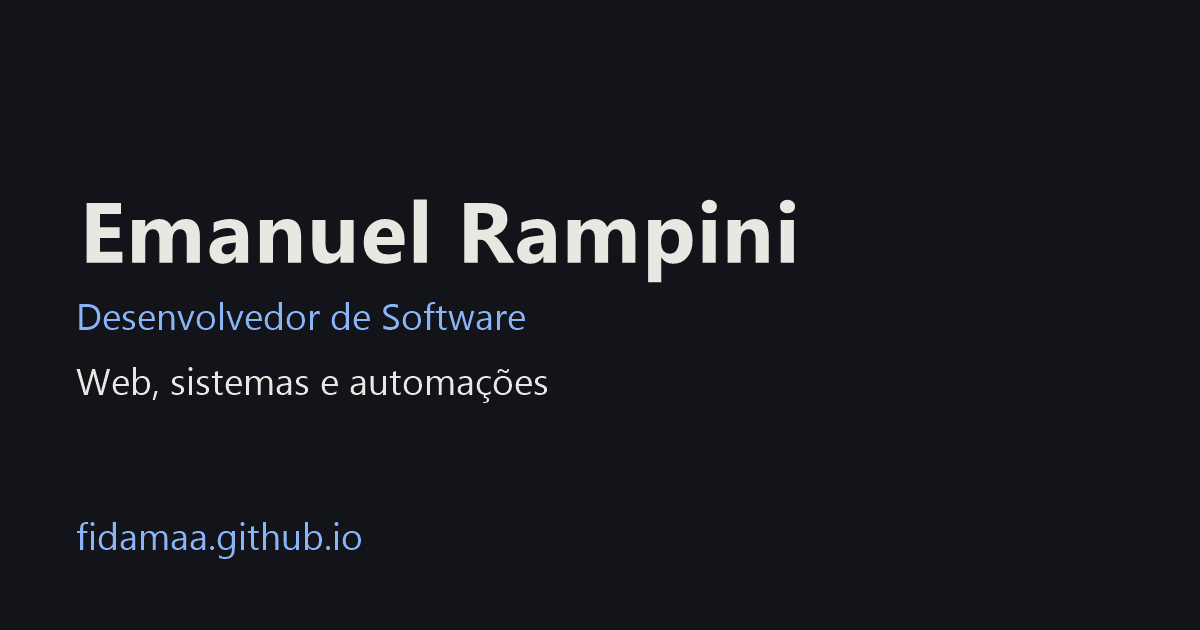
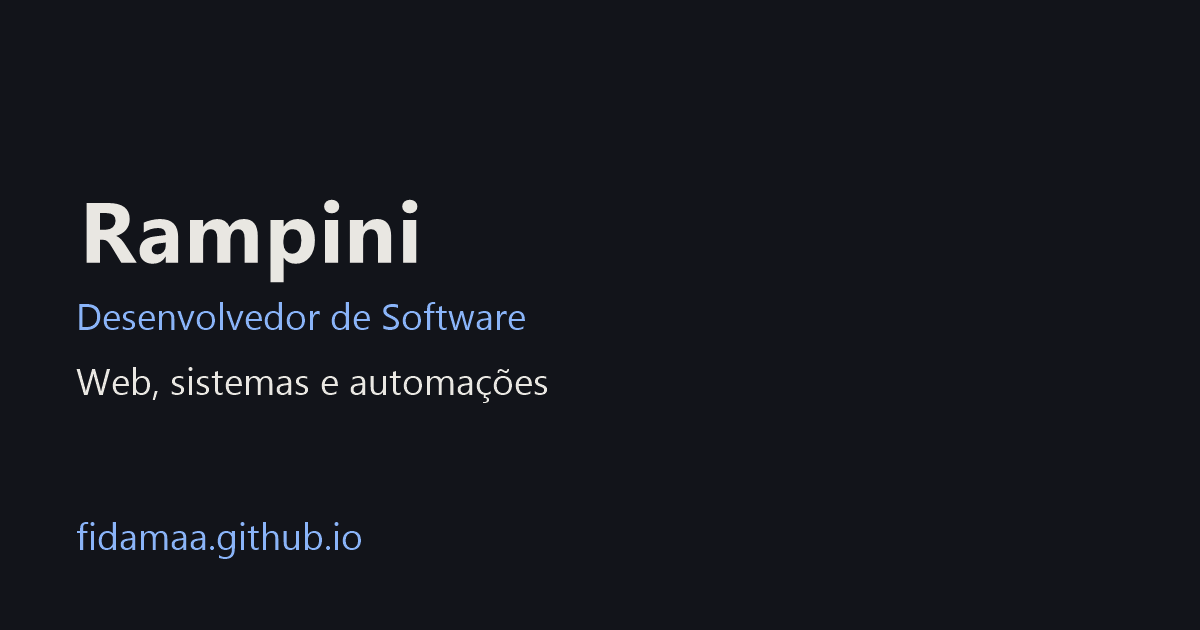
Usa Rampini como nome do portfolio

Changed region(s): [[0.0617, 0.3016, 0.6783, 0.4524]]

diff --git a/index.html b/index.html
@@ -3,14 +3,14 @@
 <head>
   <meta charset="UTF-8">
   <meta name="viewport" content="width=device-width, initial-scale=1">
-  <title>Emanuel Rampini | Desenvolvedor de Software</title>
-  <meta name="description" content="Portfólio de Emanuel Rampini, desenvolvedor de software. Aplicações web, sistemas e automações com Python e JavaScript.">
-  <meta name="author" content="Emanuel Rampini">
+  <title>Rampini | Desenvolvedor de Software</title>
+  <meta name="description" content="Portfólio de Rampini, desenvolvedor de software. Aplicações web, sistemas e automações com Python e JavaScript.">
+  <meta name="author" content="Rampini">
   <meta name="theme-color" content="#12141a">
 
   <!-- Open Graph: troque a URL pelo endereço real do site quando publicar -->
   <meta property="og:type" content="website">
-  <meta property="og:title" content="Emanuel Rampini | Desenvolvedor de Software">
+  <meta property="og:title" content="Rampini | Desenvolvedor de Software">
   <meta property="og:description" content="Aplicações web, sistemas e automações. Veja meus projetos.">
   <meta property="og:image" content="https://fidamaa.github.io/assets/og-image.png">
   <meta property="og:url" content="https://fidamaa.github.io/">
@@ -29,7 +29,7 @@
 
   <header class="site-header">
     <div class="container header-inner">
-      <a class="brand" href="#inicio" aria-label="Emanuel Rampini, início">Emanuel Rampini</a>
+      <a class="brand" href="#inicio" aria-label="Rampini, início">Rampini</a>
       <button class="menu-toggle" type="button" aria-expanded="false" aria-controls="menu" aria-label="Abrir menu">
         <span></span><span></span>
       </button>
@@ -48,7 +48,7 @@
     <section id="inicio" class="hero">
       <div class="container hero-inner">
         <div class="hero-text">
-          <h1>Emanuel Rampini</h1>
+          <h1>Rampini</h1>
           <p class="hero-role">Desenvolvedor de Software</p>
           <p class="hero-lead">Desenvolvo aplicações web, sistemas e automações. Estou começando a atuar como freelancer e construindo meu portfólio com projetos reais.</p>
           <div class="actions">
@@ -132,7 +132,7 @@
 
   <footer class="site-footer">
     <div class="container">
-      <p>&copy; <span id="year">2026</span> Emanuel Rampini</p>
+      <p>&copy; <span id="year">2026</span> Rampini</p>
     </div>
   </footer>
 
